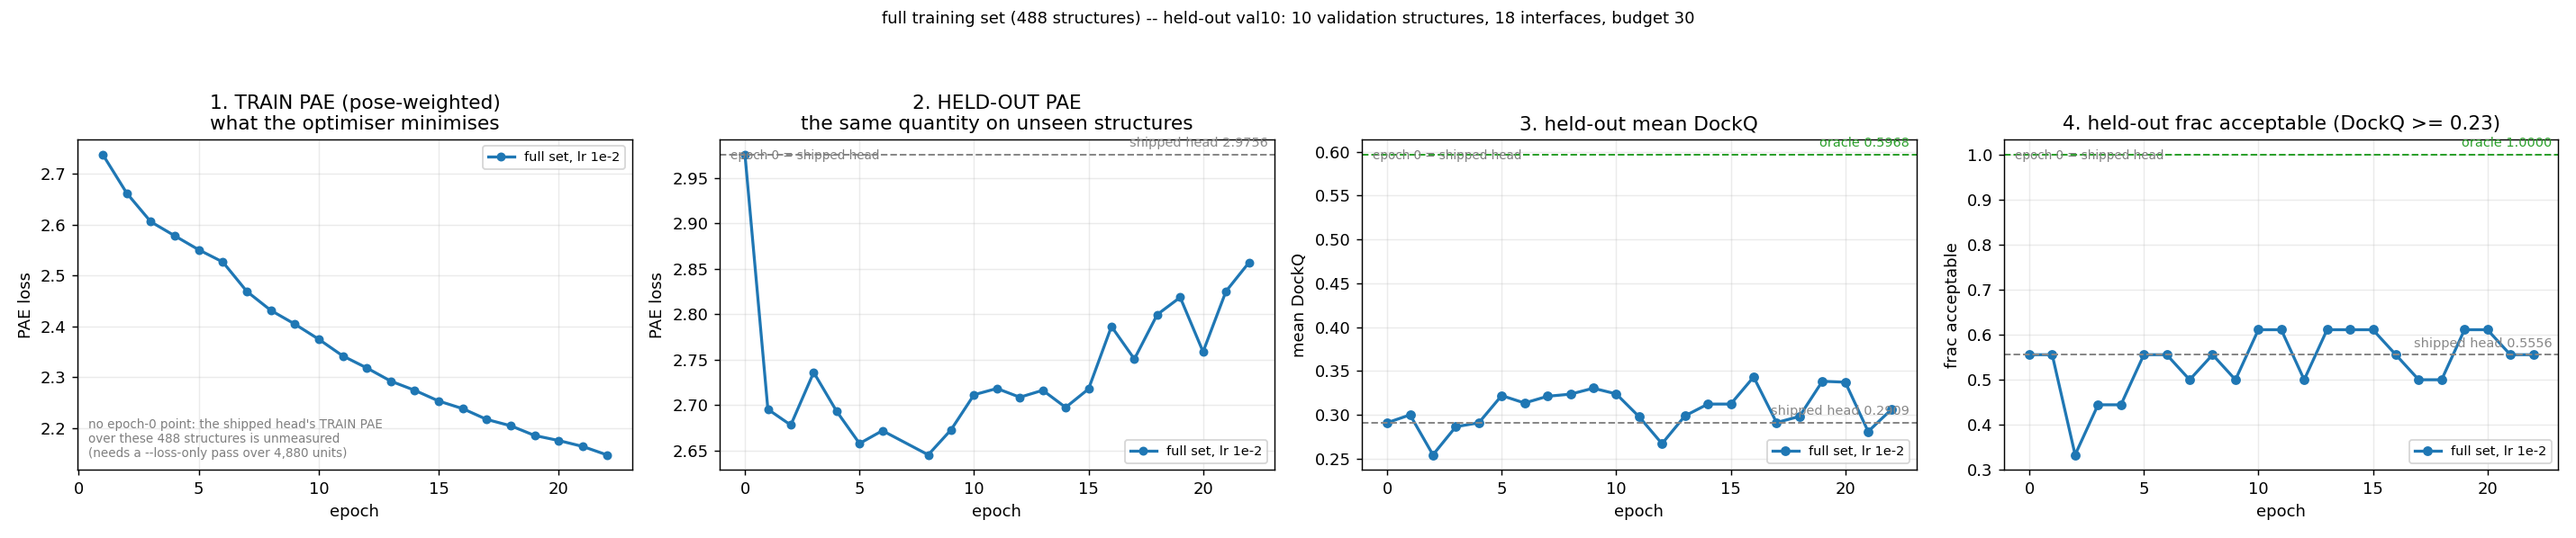
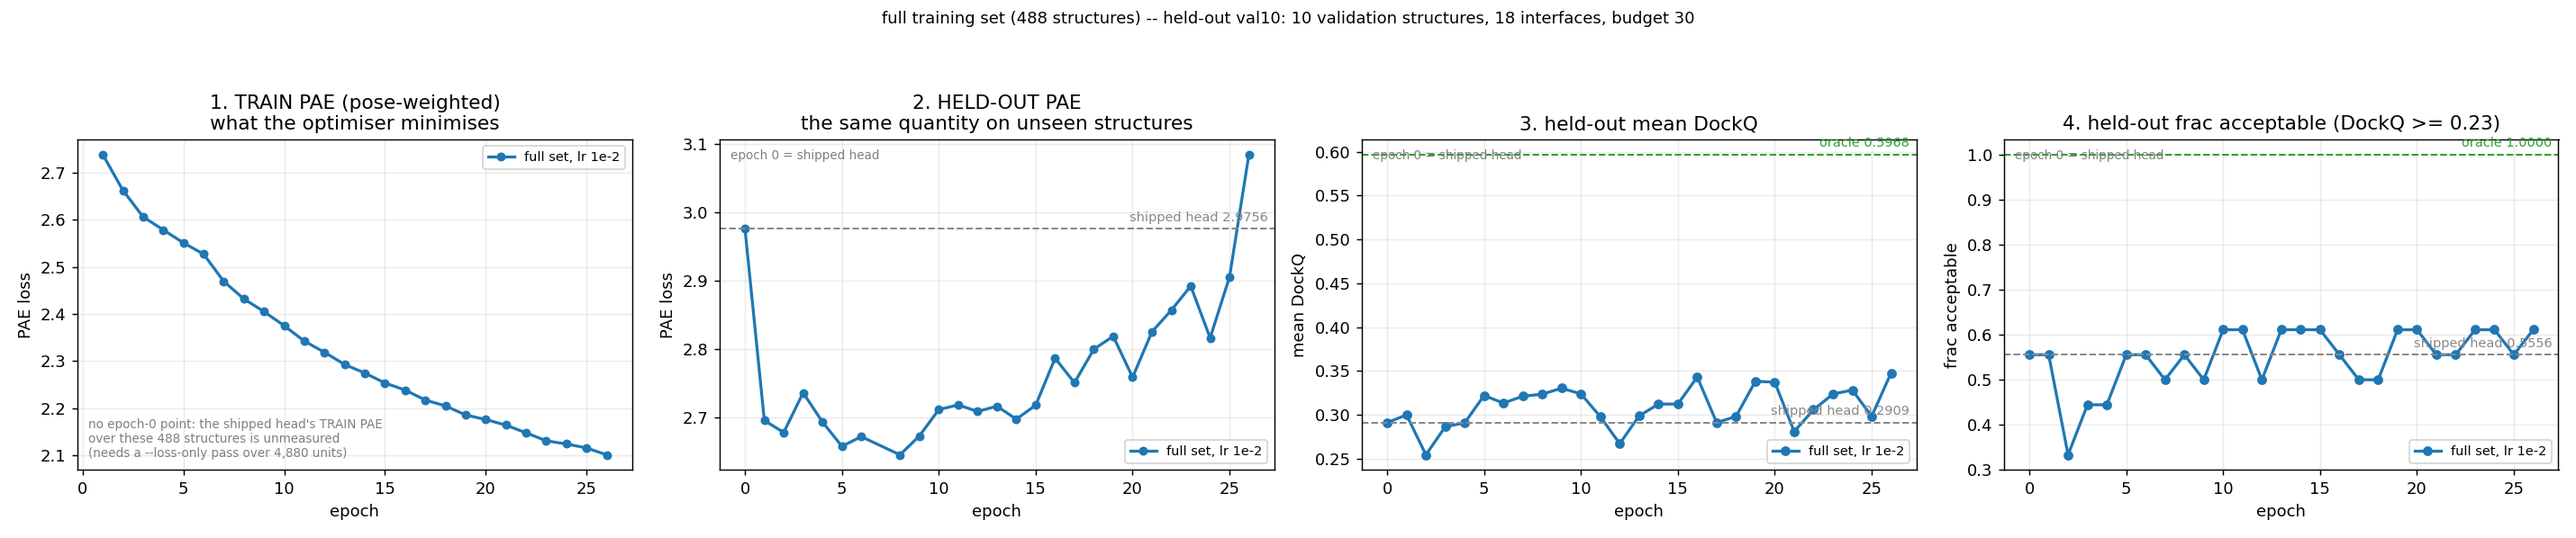
the two arms on one figure, through full-head epoch 17
The comparison plot and the tables behind it. Both arms, same 30 structures, same
val10, same lr 1e-2, same crop, same seeds, same loss, both fresh from the
shipped head; the only difference is which parameters train -- 19.8M for mdv9x7
against 26,624 (0.135%) for ggfhj5+zcuiab.

WHAT IT SHOWS, 17 epochs of the baseline against 21 of the restricted arm:

  restriction did NOT buy stability. mdv9x7 oscillates in val10 PAE 2.688-2.806
  with no drift across 17 epochs while its train PAE falls 2.3765 -> 2.0309
  (-14.5%). The 2u8tf4 collapse to 4.2639 was a function of running 142 epochs,
  not something that begins at epoch 9, which is what the hypothesis predicted.

  restriction COST held-out loss. mdv9x7 reached 2.6881 at epoch 12, the best
  held-out PAE of any run on this data -- better than 2u8tf4's 2.7231 and 0.063
  better than the restricted arm's lifetime best of 2.7510.

  NEITHER ARM IMPROVES SELECTION. val10 DockQ is below the 0.2909 baseline in
  essentially every epoch of both. The best held-out-PAE epoch ever recorded
  (mdv9x7 ep12, 2.6881) scored DockQ 0.2689 with 8 of 18 acceptable, against
  0.2909 and 10 of 18 for the untrained head. The full head does cross the
  frac_acc baseline twice (ep13 and ep16, 11/18) where the restricted arm never
  did, but DockQ was below baseline on both of those epochs, so the two
  selection metrics disagree and one interface is 0.0556.

So capacity was never the binding constraint. Both parameterisations fit PAE
[…]

diff --git a/extra_training/run_logging/metrics_io.py b/extra_training/run_logging/metrics_io.py
@@ -107,11 +107,40 @@ def load(root, runs, budget, full_steps=0):
             _last_ep = max(acc) if acc else 0
             _is_newest = (part == runs.split("+")[-1])
             _ended = os.path.exists(os.path.join(d, "status.json"))
+            # AN INDEPENDENT COUNT OF WHERE EACH EPOCH ENDED, so the newest epoch need not be
+            # withheld. val_loss.csv's `step` is CUMULATIVE optimiser steps at the end of that
+            # epoch, written by the boundary monitor and not derived from the trajectory at all --
+            # so step(e) - step(e-1) is how many steps epoch e should contain, and an epoch with
+            # all of them is finished whether or not a later epoch has started. This is the exact
+            # test the 0.98 threshold could not be: epoch 6 of 2w5to5 had 285 of 289 and cleared
+            # 0.98, and would fail this.
+            _step_at = {}
+            _vl = os.path.join(d, "val_loss.csv")
+            if os.path.exists(_vl):
+                with open(_vl) as fh:
+                    for r in csv.DictReader(fh):
+                        try:
+                            _step_at[int(r["epoch"])] = int(r["step"])
+                        except (ValueError, KeyError, TypeError):
+                            continue
+
+            def _expected(e, _sa=_step_at):
+                """Steps epoch e should hold, or None when it cannot be known."""
+                if e not in _sa:
+                    return None
+                if e - 1 in _sa:
+                    return _sa[e] - _sa[e - 1]
+                # No predecessor: only epoch 1 of a FRESH segment starts from step 0. A resumed
+                # segment's first epoch starts from the bundle's step, which is not recorded here.
+                return _sa[e] if e == 1 else None
+
             for e, (s, n, k) in acc.items():
                 # WEIGHTED BY POSE COUNT, never a mean of per-step means, and a partial epoch is
                 # dropped rather than averaged -- an epoch's last step is a remainder.
                 m.train_steps[e] = m.train_steps.get(e, 0) + k
-                if k >= need and n > 0 and (e < _last_ep or not _is_newest or _ended):
+                _exp = _expected(e)
+                _whole = _exp is not None and k >= _exp
+                if k >= need and n > 0 and (_whole or e < _last_ep or not _is_newest or _ended):
                     m.train_pae[e] = s / n
                     m.segment[e] = part
         p = os.path.join(d, "val_loss.csv")

diff --git a/extra_training/docs/fullhead_overfit30_results.md b/extra_training/docs/fullhead_overfit30_results.md
@@ -1,0 +1,104 @@
+# Full training set: the four metrics, per epoch
+
+Generated 2026-10-21 12:40 PDT by `run_logging/results_table.py` from `mdv9x7`, at **budget 30**. Regenerated automatically when an epoch's fourth metric lands. Do not edit.
+
+## The lineage is one experiment in three parts
+
+Epoch numbers are continuous, but the segments do NOT share an implementation, so **throughput and memory are not comparable across them**. The metrics are.
+
+| segment | epochs | configuration |
+|---|---|---|
+| `x3k2m4` | — | checkpointing ON (blocks_per_ckpt=1); per-epoch fingerprint hashing; prefetch_issue double-counted the hash |
+| `jhgfxy` | — | checkpointing ON; fresh process so hashing re-paid; prefetch choice-cache added |
+| `2w5to5` | — | checkpointing OFF (blocks_per_ckpt=None); persistent fingerprint cache; empty_cache at the boundary; exclusive timers + residual + memory peaks |
+
+## Epoch 0 is the shipped head
+
+| metric | epoch 0 | oracle |
+|---|---|---|
+| held-out PAE | 2.9756 | — |
+| val10 mean DockQ | 0.2909 | 0.5968 |
+| val10 frac-acceptable | 0.5556 | 1.0000 |
+| train PAE | **unmeasured** | — |
+
+Budget 30, 18 interfaces, 10 validation structures. **Not** the budget-100 figures (0.2626 / 0.5000, oracle 0.6662 / 1.0000) — never quote one against the other. The shipped head's train PAE over these 488 structures has never been measured; it needs a `--loss-only` pass over 4,880 units.
+
+## Per epoch
+
+| epoch | seg | complete | train PAE | held-out PAE | vs ep0 | val10 DockQ | vs ep0 | frac-acc | vs ep0 |
+|---|---|---|---|---|---|---|---|---|---|
+| 1 | `mdv9x7` | yes | 2.3765 | 2.7457 | -0.2299 | 0.2712 | -0.0197 | 0.4444 | -0.1112 |
+| 2 | `mdv9x7` | yes | 2.2646 | 2.7466 | -0.2290 | 0.2774 | -0.0135 | 0.5000 | -0.0556 |
+| 3 | `mdv9x7` | yes | 2.2407 | 2.7127 | -0.2629 | 0.2444 | -0.0465 | 0.5000 | -0.0556 |
+| 4 | `mdv9x7` | yes | 2.1777 | 2.7555 | -0.2201 | 0.2800 | -0.0109 | 0.5000 | -0.0556 |
+| 5 | `mdv9x7` | yes | 2.1997 | 2.7448 | -0.2308 | 0.2658 | -0.0251 | 0.4444 | -0.1112 |
+| 6 | `mdv9x7` | yes | 2.1678 | 2.7649 | -0.2107 | 0.2571 | -0.0338 | 0.5000 | -0.0556 |
+| 7 | `mdv9x7` | yes | 2.1318 | 2.8060 | -0.1696 | 0.2842 | -0.0067 | 0.5000 | -0.0556 |
+| 8 | `mdv9x7` | yes | 2.1452 | 2.7428 | -0.2328 | 0.2755 | -0.0154 | 0.5000 | -0.0556 |
+| 9 | `mdv9x7` | yes | 2.1094 | 2.7149 | -0.2607 | 0.2576 | -0.0333 | 0.4444 | -0.1112 |
+| 10 | `mdv9x7` | yes | 2.1259 | 2.7290 | -0.2466 | 0.2792 | -0.0117 | 0.4444 | -0.1112 |
+| 11 | `mdv9x7` | yes | 2.1283 | 2.7317 | -0.2439 | 0.2717 | -0.0192 | 0.5556 | +0.0000 |
+| 12 | `mdv9x7` | yes | 2.0804 | 2.6881 | -0.2875 | 0.2689 | -0.0220 | 0.4444 | -0.1112 |
+| 13 | `mdv9x7` | yes | 2.0832 | 2.7199 | -0.2557 | 0.2624 | -0.0285 | 0.6111 | +0.0555 |
+| 14 | `mdv9x7` | yes | 2.0423 | 2.7359 | -0.2397 | 0.2870 | -0.0039 | 0.5556 | +0.0000 |
+| 15 | `mdv9x7` | yes | 2.0417 | 2.7402 | -0.2354 | 0.2508 | -0.0401 | 0.5556 | +0.0000 |
+| 16 | `mdv9x7` | yes | 2.0035 | 2.6969 | -0.2787 | 0.2693 | -0.0216 | 0.6111 | +0.0555 |
+| 17 | `mdv9x7` | yes | 2.0309 | 2.7817 | -0.1939 | 0.2505 | -0.0404 | 0.5556 | +0.0000 |
+
+Held-out PAE is a loss, so **lower is better** and a negative delta is an improvement. DockQ and frac-acceptable are the opposite.
+
+`complete` means all four metrics are present AND the held-out pass covered its expected 1500 poses. An epoch marked **NO** is mid-boundary or lost a metric to a failure — its em-dashes are missing measurements, not zeros.
+
+## Why held-out PAE is the metric to read
+
+On the 30-structure arm, training PAE fell 38% from epoch 1 to 142 while held-out PAE ROSE 51% (2.8290 → 4.2639 against 2.9756 untrained), and the DockQ metrics showed nothing the entire time because ipTM barely orders poses within an interface — Spearman 0.20 for the shipped head, 0.10 for the trained one. A falling train-PAE curve is not evidence a run is working.
+
+**But held-out PAE is necessary, not sufficient.** It is a loss on the statistic ipTM derives from, not a measure of ranking. DockQ carries about ±0.05 on 18 interfaces and frac-acceptable only moves in steps of 1/18 = 0.0556, so single-epoch moves in those columns are noise — which cuts both ways: epoch 2's fall from 10/18 to 6/18 acceptable is as uninterpretable alone as a rise would be. A paired per-interface ranking analysis (`analysis/oneoff/05_val10_rank_correlation.py`) is the thing that would settle whether selection improved, and it needs several epochs of checkpoints to be worth running.
+
+## Per-epoch wall clock and memory
+
+| epoch | seg | slowest rank | wall (min) | accounted | residual | peak alloc (GB) | peak reserved (GB) | ckpt |
+|---|---|---|---|---|---|---|---|---|
+| 1 | `mdv9x7` | 2 | 2.0 | 1.8m | 0.2m | 44.82 | 45.67 | None |
+| 2 | `mdv9x7` | 2 | 2.0 | 1.8m | 0.2m | 44.82 | 45.34 | None |
+| 3 | `mdv9x7` | 1 | 1.9 | 1.8m | 0.1m | 44.82 | 45.34 | None |
+| 4 | `mdv9x7` | 2 | 1.8 | 1.7m | 0.1m | 44.82 | 45.34 | None |
+| 5 | `mdv9x7` | 2 | 2.0 | 1.7m | 0.2m | 44.82 | 45.34 | None |
+| 6 | `mdv9x7` | 2 | 2.1 | 1.8m | 0.4m | 44.82 | 45.34 | None |
+| 7 | `mdv9x7` | 2 | 2.0 | 1.7m | 0.3m | 44.82 | 45.34 | None |
+| 8 | `mdv9x7` | 2 | 1.9 | 1.7m | 0.2m | 44.82 | 45.34 | None |
+| 9 | `mdv9x7` | 2 | 2.1 | 1.8m | 0.3m | 44.82 | 45.34 | None |
+| 10 | `mdv9x7` | 2 | 1.9 | 1.7m | 0.1m | 44.82 | 45.34 | None |
+| 11 | `mdv9x7` | 2 | 1.8 | 1.8m | 0.0m | 44.82 | 45.34 | None |
+| 12 | `mdv9x7` | 2 | 1.8 | 1.7m | 0.0m | 44.82 | 45.34 | None |
+| 13 | `mdv9x7` | 2 | 1.8 | 1.8m | 0.0m | 44.82 | 45.34 | None |
+| 14 | `mdv9x7` | 2 | 1.8 | 1.8m | 0.0m | 44.82 | 45.34 | None |
+| 15 | `mdv9x7` | 2 | 1.8 | 1.7m | 0.1m | 44.82 | 45.34 | None |
+| 16 | `mdv9x7` | 2 | 1.9 | 1.7m | 0.2m | 44.82 | 45.34 | None |
+| 17 | `mdv9x7` | 2 | 1.8 | 1.8m | 0.0m | 44.82 | 45.34 | None |
+| 18 | `?` | 2 | 1.8 | 1.8m | 0.0m | 44.82 | 45.34 | None |
+
+**Wall, accounted and residual all come from the SAME rank** — the one with the longest wall clock — so accounted + residual equals wall. Taking each column's maximum independently produced a row that did not add up under a heading that said 'worst rank'. Memory stays an across-rank maximum on purpose: there the question is whether ANY rank came near the card.
+
+`ckpt` is the live `blocks_per_ckpt`: `1` recomputes every pairformer block's forward during backward, `None` stores activations instead. The residual is wall clock minus the mutually exclusive buckets; `gpu_forward` and `gpu_backward` are CUDA-event spans that overlap `pose_total` and are excluded from the sum.
+
+### Bucket detail, per rank
+
+**epoch 16** (`mdv9x7`)
+
+- rank 0: apply_step_total 0.0m/15  crop_slice 0.2m/90  cropped_tokens mean 407  gpu_backward 1.2m/450  gpu_forward 0.5m/450  grad_collective_plus_wait 0.0m/15  label_open 0.0m/90  loss_feature_prep 0.0m/90  loss_stats_collective_plus_wait 0.0m/15  pose_total 1.5m/450  prefetch_issue 0.0m/89
+- rank 1: apply_step_total 0.0m/15  crop_slice 0.2m/90  cropped_tokens mean 407  gpu_backward 1.2m/450  gpu_forward 0.5m/450  grad_collective_plus_wait 0.0m/15  label_open 0.0m/90  loss_feature_prep 0.0m/90  loss_stats_collective_plus_wait 0.0m/15  pose_total 1.5m/450  prefetch_issue 0.0m/89
+- rank 2: apply_step_total 0.0m/15  crop_slice 0.2m/90  cropped_tokens mean 407  gpu_backward 1.2m/450  gpu_forward 0.5m/450  grad_collective_plus_wait 0.0m/15  label_open 0.0m/90  loss_feature_prep 0.0m/90  loss_stats_collective_plus_wait 0.0m/15  pose_total 1.5m/450  prefetch_issue 0.0m/89
+
+**epoch 17** (`mdv9x7`)
+
+- rank 0: apply_step_total 0.1m/15  crop_slice 0.2m/90  cropped_tokens mean 407  gpu_backward 1.2m/450  gpu_forward 0.5m/450  grad_collective_plus_wait 0.0m/15  label_open 0.0m/90  loss_feature_prep 0.0m/90  loss_stats_collective_plus_wait 0.0m/15  pose_total 1.5m/450  prefetch_issue 0.0m/89
+- rank 1: apply_step_total 0.1m/15  crop_slice 0.2m/90  cropped_tokens mean 407  gpu_backward 1.2m/450  gpu_forward 0.5m/450  grad_collective_plus_wait 0.0m/15  label_open 0.0m/90  loss_feature_prep 0.0m/90  loss_stats_collective_plus_wait 0.0m/15  pose_total 1.5m/450  prefetch_issue 0.0m/89
+- rank 2: apply_step_total 0.1m/15  crop_slice 0.2m/90  cropped_tokens mean 407  gpu_backward 1.2m/450  gpu_forward 0.5m/450  grad_collective_plus_wait 0.0m/15  label_open 0.0m/90  loss_feature_prep 0.0m/90  loss_stats_collective_plus_wait 0.0m/15  pose_total 1.5m/450  prefetch_issue 0.0m/89
+
+**epoch 18** (`?`)
+
+- rank 0: apply_step_total 0.0m/15  crop_slice 0.2m/90  cropped_tokens mean 407  gpu_backward 1.2m/450  gpu_forward 0.5m/450  grad_collective_plus_wait 0.0m/15  label_open 0.0m/90  loss_feature_prep 0.0m/90  loss_stats_collective_plus_wait 0.0m/15  pose_total 1.5m/450  prefetch_issue 0.0m/89
+- rank 1: apply_step_total 0.0m/15  crop_slice 0.2m/90  cropped_tokens mean 407  gpu_backward 1.2m/450  gpu_forward 0.5m/450  grad_collective_plus_wait 0.0m/15  label_open 0.0m/90  loss_feature_prep 0.0m/90  loss_stats_collective_plus_wait 0.0m/15  pose_total 1.5m/450  prefetch_issue 0.0m/89
+- rank 2: apply_step_total 0.0m/15  crop_slice 0.2m/90  cropped_tokens mean 407  gpu_backward 1.2m/450  gpu_forward 0.5m/450  grad_collective_plus_wait 0.0m/15  label_open 0.0m/90  loss_feature_prep 0.0m/90  loss_stats_collective_plus_wait 0.0m/15  pose_total 1.5m/450  prefetch_issue 0.0m/89
+

diff --git a/extra_training/docs/full_train_results.md b/extra_training/docs/full_train_results.md
@@ -1,6 +1,6 @@
 # Full training set: the four metrics, per epoch
 
-Generated 2026-10-21 03:50 PDT by `run_logging/results_table.py` from `x3k2m4+jhgfxy+2w5to5+ocqtyt`, at **budget 30**. Regenerated automatically when an epoch's fourth metric lands. Do not edit.
+Generated 2026-10-21 12:32 PDT by `run_logging/results_table.py` from `x3k2m4+jhgfxy+2w5to5+ocqtyt`, at **budget 30**. Regenerated automatically when an epoch's fourth metric lands. Do not edit.
 
 ## The lineage is one experiment in three parts
 
@@ -49,6 +49,10 @@ Budget 30, 18 interfaces, 10 validation structures. **Not** the budget-100 figur
 | 20 | `ocqtyt` | yes | 2.1756 | 2.7585 | -0.2171 | 0.3372 | +0.0463 | 0.6111 | +0.0555 |
 | 21 | `ocqtyt` | yes | 2.1639 | 2.8251 | -0.1505 | 0.2809 | -0.0100 | 0.5556 | +0.0000 |
 | 22 | `ocqtyt` | yes | 2.1474 | 2.8566 | -0.1190 | 0.3057 | +0.0148 | 0.5556 | +0.0000 |
+| 23 | `ocqtyt` | yes | 2.1305 | 2.8919 | -0.0837 | 0.3236 | +0.0327 | 0.6111 | +0.0555 |
+| 24 | `ocqtyt` | yes | 2.1238 | 2.8160 | -0.1596 | 0.3282 | +0.0373 | 0.6111 | +0.0555 |
+| 25 | `ocqtyt` | yes | 2.1152 | 2.9051 | -0.0705 | 0.2982 | +0.0073 | 0.5556 | +0.0000 |
+| 26 | `ocqtyt` | yes | 2.1007 | 3.0841 | +0.1085 | 0.3477 | +0.0568 | 0.6111 | +0.0555 |
 
 Held-out PAE is a loss, so **lower is better** and a negative delta is an improvement. DockQ and frac-acceptable are the opposite.
 
@@ -86,6 +90,10 @@ On the 30-structure arm, training PAE fell 38% from epoch 1 to 142 while held-ou
 | 20 | `ocqtyt` | 1 | 33.8 | 19.5m | 14.3m | 65.70 | 66.47 | None |
 | 21 | `ocqtyt` | 2 | 37.2 | 26.5m | 10.8m | 65.70 | 66.47 | None |
 | 22 | `ocqtyt` | 2 | 35.7 | 25.2m | 10.5m | 65.70 | 66.47 | None |
+| 23 | `ocqtyt` | 2 | 35.1 | 24.2m | 10.9m | 65.70 | 66.47 | None |
+| 24 | `ocqtyt` | 2 | 35.0 | 23.9m | 11.1m | 65.70 | 66.47 | None |
+| 25 | `ocqtyt` | 2 | 32.7 | 23.2m | 9.5m | 65.70 | 66.47 | None |
+| 26 | `ocqtyt` | 2 | 34.2 | 22.8m | 11.5m | 65.70 | 66.47 | None |
 
 **Wall, accounted and residual all come from the SAME rank** — the one with the longest wall clock — so accounted + residual equals wall. Taking each column's maximum independently produced a row that did not add up under a heading that said 'worst rank'. Memory stays an across-rank maximum on purpose: there the question is whether ANY rank came near the card.
 
@@ -93,21 +101,21 @@ On the 30-structure arm, training PAE fell 38% from epoch 1 to 142 while held-ou
 
 ### Bucket detail, per rank
 
-**epoch 20** (`ocqtyt`)
+**epoch 24** (`ocqtyt`)
 
-- rank 0: apply_step_total 0.7m/244  crop_slice 1.5m/1464  cropped_tokens mean 326  gpu_backward 12.4m/7320  gpu_forward 5.7m/7320  grad_collective_plus_wait 0.4m/244  label_open 0.0m/1464  loss_feature_prep 0.0m/1464  loss_stats_collective_plus_wait 0.4m/244  pose_total 16.4m/7320  prefetch_issue 0.0m/1463
-- rank 1: apply_step_total 0.7m/244  crop_slice 1.5m/1464  cropped_tokens mean 326  gpu_backward 12.4m/7320  gpu_forward 5.7m/7320  grad_collective_plus_wait 0.4m/244  label_open 0.0m/1464  loss_feature_prep 0.0m/1464  loss_stats_collective_plus_wait 0.8m/244  pose_total 16.4m/7320  prefetch_issue 0.0m/1463
-- rank 2: apply_step_total 0.7m/244  crop_slice 1.6m/1464  cropped_tokens mean 326  gpu_backward 12.4m/7320  gpu_forward 5.8m/7320  grad_collective_plus_wait 0.5m/244  label_open 0.0m/1464  loss_feature_prep 0.0m/1464  loss_stats_collective_plus_wait 3.8m/244  pose_total 16.5m/7320  prefetch_issue 0.0m/1463
+- rank 0: apply_step_total 0.7m/244  crop_slice 1.6m/1464  cropped_tokens mean 326  gpu_backward 12.4m/7320  gpu_forward 5.7m/7320  grad_collective_plus_wait 0.4m/244  label_open 0.0m/1464  loss_feature_prep 0.0m/1464  loss_stats_collective_plus_wait 0.4m/244  pose_total 16.3m/7320  prefetch_issue 0.0m/1463
+- rank 1: apply_step_total 0.7m/244  crop_slice 1.6m/1464  cropped_tokens mean 326  gpu_backward 12.4m/7320  gpu_forward 5.6m/7320  grad_collective_plus_wait 0.4m/244  label_open 0.0m/1464  loss_feature_prep 0.0m/1464  loss_stats_collective_plus_wait 0.4m/244  pose_total 16.2m/7320  prefetch_issue 0.0m/1463
+- rank 2: apply_step_total 0.7m/244  crop_slice 1.6m/1464  cropped_tokens mean 326  gpu_backward 12.4m/7320  gpu_forward 5.7m/7320  grad_collective_plus_wait 0.5m/244  label_open 0.0m/1464  loss_feature_prep 0.0m/1464  loss_stats_collective_plus_wait 5.2m/244  pose_total 16.4m/7320  prefetch_issue 0.0m/1463
 
-**epoch 21** (`ocqtyt`)
+**epoch 25** (`ocqtyt`)
 
-- rank 0: apply_step_total 0.7m/244  crop_slice 1.5m/1464  cropped_tokens mean 326  gpu_backward 12.4m/7320  gpu_forward 5.7m/7320  grad_collective_plus_wait 0.4m/244  label_open 0.0m/1464  loss_feature_prep 0.0m/1464  loss_stats_collective_plus_wait 0.4m/244  pose_total 16.4m/7320  prefetch_issue 0.0m/1463
-- rank 1: apply_step_total 0.7m/244  crop_slice 1.5m/1464  cropped_tokens mean 326  gpu_backward 12.4m/7320  gpu_forward 5.7m/7320  grad_collective_plus_wait 0.4m/244  label_open 0.0m/1464  loss_feature_prep 0.0m/1464  loss_stats_collective_plus_wait 0.8m/244  pose_total 16.3m/7320  prefetch_issue 0.0m/1463
-- rank 2: apply_step_total 0.7m/244  crop_slice 1.6m/1464  cropped_tokens mean 326  gpu_backward 12.5m/7320  gpu_forward 5.8m/7320  grad_collective_plus_wait 0.5m/244  label_open 0.0m/1464  loss_feature_prep 0.0m/1464  loss_stats_collective_plus_wait 7.6m/244  pose_total 16.5m/7320  prefetch_issue 0.0m/1463
+- rank 0: apply_step_total 0.6m/244  crop_slice 1.7m/1464  cropped_tokens mean 326  gpu_backward 12.4m/7320  gpu_forward 5.7m/7320  grad_collective_plus_wait 0.4m/244  label_open 0.0m/1464  loss_feature_prep 0.0m/1464  loss_stats_collective_plus_wait 0.3m/244  pose_total 16.3m/7320  prefetch_issue 0.0m/1463
+- rank 1: apply_step_total 0.7m/244  crop_slice 1.7m/1464  cropped_tokens mean 326  gpu_backward 12.4m/7320  gpu_forward 5.7m/7320  grad_collective_plus_wait 0.4m/244  label_open 0.0m/1464  loss_feature_prep 0.0m/1464  loss_stats_collective_plus_wait 0.4m/244  pose_total 16.3m/7320  prefetch_issue 0.0m/1463
+- rank 2: apply_step_total 0.6m/244  crop_slice 1.7m/1464  cropped_tokens mean 326  gpu_backward 12.4m/7320  gpu_forward 5.7m/7320  grad_collective_plus_wait 0.4m/244  label_open 0.0m/1464  loss_feature_prep 0.0m/1464  loss_stats_collective_plus_wait 4.5m/244  pose_total 16.4m/7320  prefetch_issue 0.0m/1463
 
-**epoch 22** (`ocqtyt`)
+**epoch 26** (`ocqtyt`)
 
-- rank 0: apply_step_total 0.7m/244  crop_slice 1.6m/1464  cropped_tokens mean 326  gpu_backward 12.4m/7320  gpu_forward 5.7m/7320  grad_collective_plus_wait 0.4m/244  label_open 0.0m/1464  loss_feature_prep 0.0m/1464  loss_stats_collective_plus_wait 0.3m/244  pose_total 16.3m/7320  prefetch_issue 0.0m/1463
-- rank 1: apply_step_total 0.7m/244  crop_slice 1.6m/1464  cropped_tokens mean 326  gpu_backward 12.4m/7320  gpu_forward 5.7m/7320  grad_collective_plus_wait 0.4m/244  label_open 0.0m/1464  loss_feature_prep 0.0m/1464  loss_stats_collective_plus_wait 0.5m/244  pose_total 16.3m/7320  prefetch_issue 0.0m/1463
-- rank 2: apply_step_total 0.7m/244  crop_slice 1.7m/1464  cropped_tokens mean 326  gpu_backward 12.5m/7320  gpu_forward 5.8m/7320  grad_collective_plus_wait 0.5m/244  label_open 0.0m/1464  loss_feature_prep 0.0m/1464  loss_stats_collective_plus_wait 6.4m/244  pose_total 16.5m/7320  prefetch_issue 0.0m/1463
+- rank 0: apply_step_total 0.7m/244  crop_slice 1.6m/1464  cropped_tokens mean 326  gpu_backward 12.4m/7320  gpu_forward 5.7m/7320  grad_collective_plus_wait 0.4m/244  label_open 0.0m/1464  loss_feature_prep 0.0m/1464  loss_stats_collective_plus_wait 0.4m/244  pose_total 16.3m/7320  prefetch_issue 0.0m/1463
+- rank 1: apply_step_total 0.7m/244  crop_slice 1.6m/1464  cropped_tokens mean 326  gpu_backward 12.4m/7320  gpu_forward 5.7m/7320  grad_collective_plus_wait 0.4m/244  label_open 0.0m/1464  loss_feature_prep 0.0m/1464  loss_stats_collective_plus_wait 0.3m/244  pose_total 16.3m/7320  prefetch_issue 0.0m/1463
+- rank 2: apply_step_total 0.7m/244  crop_slice 1.6m/1464  cropped_tokens mean 326  gpu_backward 12.4m/7320  gpu_forward 5.7m/7320  grad_collective_plus_wait 0.5m/244  label_open 0.0m/1464  loss_feature_prep 0.0m/1464  loss_stats_collective_plus_wait 4.1m/244  pose_total 16.4m/7320  prefetch_issue 0.0m/1463
 
